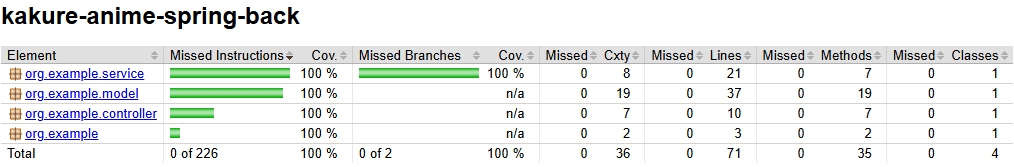
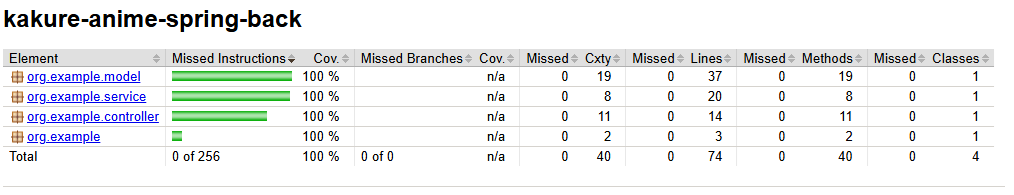
docs(readme): sync coverage report and screenshot

Changed region(s): [[0.0, 0.2395, 1.0, 0.9581], [0.0, 0.0299, 0.3057, 0.1796], [0.9783, 0.6587, 1.0, 0.6886]]

diff --git a/README.md b/README.md
@@ -189,6 +189,8 @@ El backend se ha comprobado en escenarios reales de uso y validación técnica:
 
 El proyecto cuenta con una estrategia automatizada de tests orientada a cubrir el comportamiento real del backend sin alterar su lógica. La suite combina pruebas de contexto, unitarias, de capa web e integración con base de datos en memoria para validar el flujo completo del CRUD, y la cobertura se genera de forma automática con JaCoCo.
 
+En la última ejecución local validada, Maven ejecutó `20 tests` y todos finalizaron correctamente.
+
 Tipos de tests implementados:
 
 - `KakureAnimeSpringBackApplicationTests`: verifica la carga del contexto Spring Boot usando el perfil `test`.
@@ -223,7 +225,7 @@ Dónde consultar la cobertura:
 Cobertura del último reporte generado en local:
 
 - `100%` de instrucciones
-- `100%` de ramas
+- `n/a` en ramas dentro del reporte actual de JaCoCo
 - `100%` de líneas
 
 ### Vista del reporte de cobertura

diff --git a/README.en.md b/README.en.md
@@ -189,6 +189,8 @@ The backend has been validated through real usage scenarios and technical checks
 
 The project includes an automated testing strategy designed to validate the real backend behavior without changing its business logic. The suite combines context, unit, web layer, and in-memory database integration tests to cover the full CRUD flow, and coverage is generated automatically with JaCoCo.
 
+In the latest validated local run, Maven executed `20 tests` and all of them passed successfully.
+
 Implemented test types:
 
 - `KakureAnimeSpringBackApplicationTests`: verifies Spring Boot context loading with the `test` profile.
@@ -223,7 +225,7 @@ Where to review coverage:
 Coverage from the latest local report:
 
 - `100%` instruction coverage
-- `100%` branch coverage
+- `n/a` branch coverage in the current JaCoCo report
 - `100%` line coverage
 
 ### Coverage report preview
